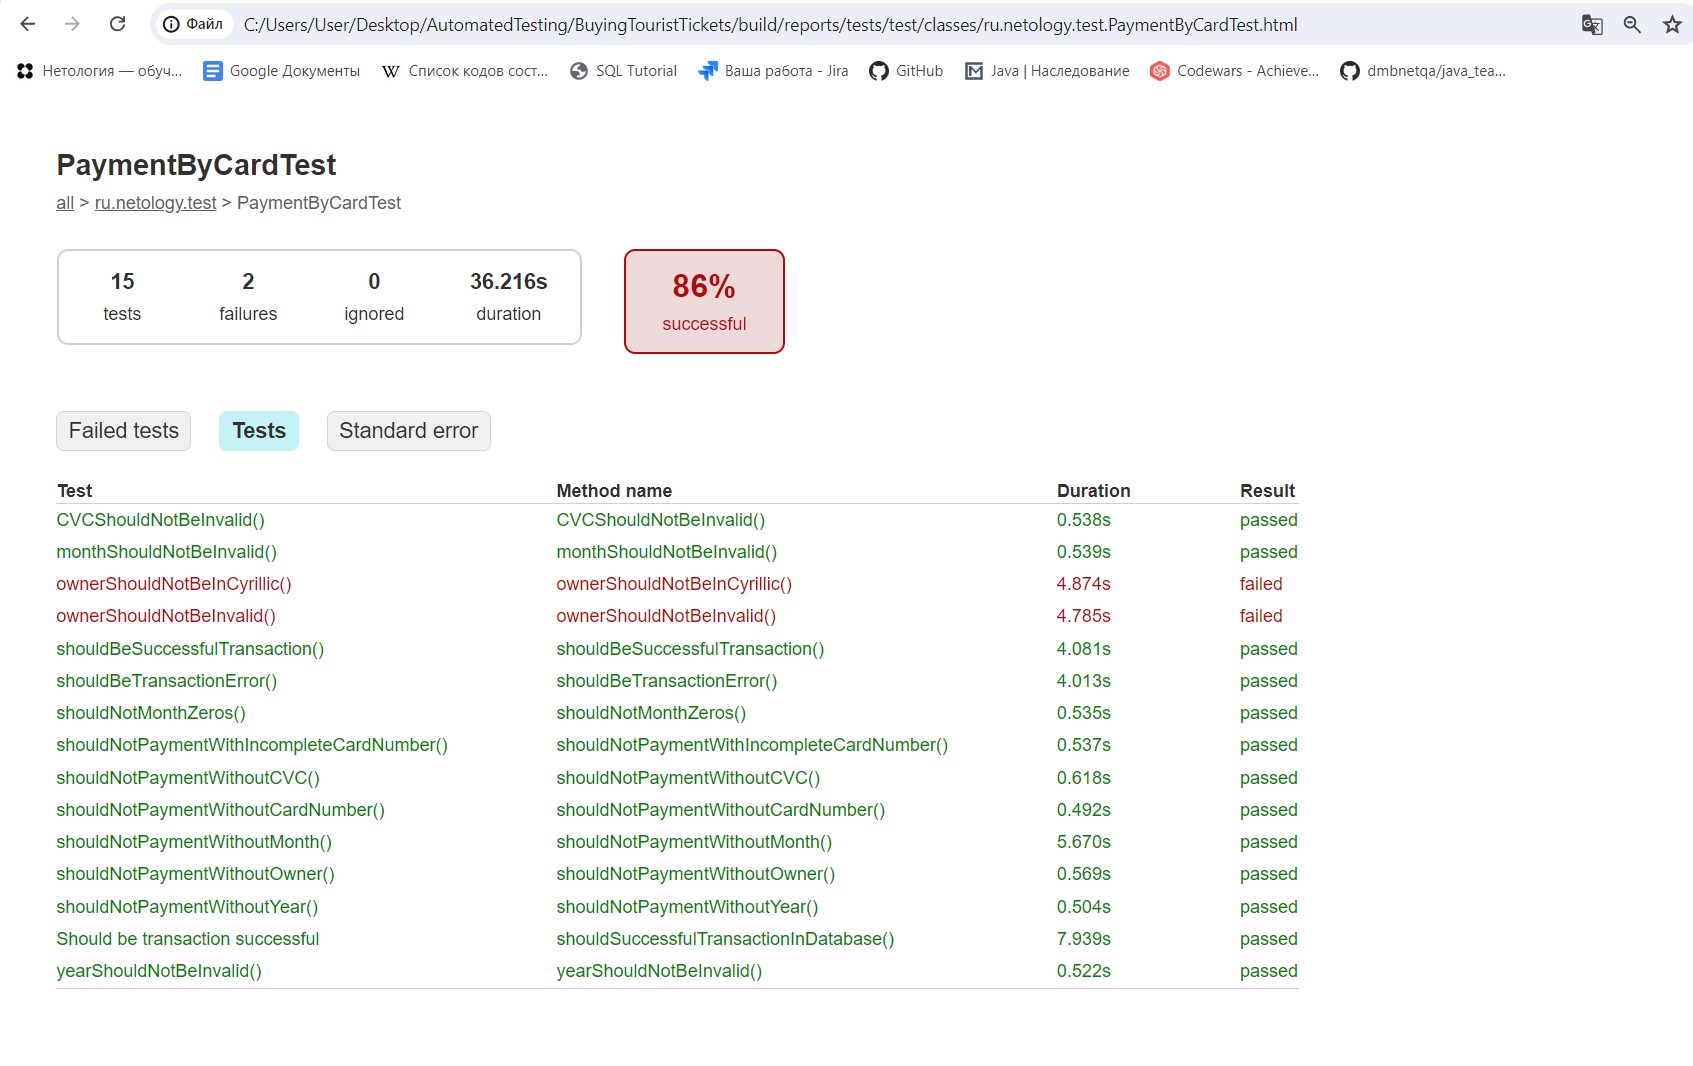
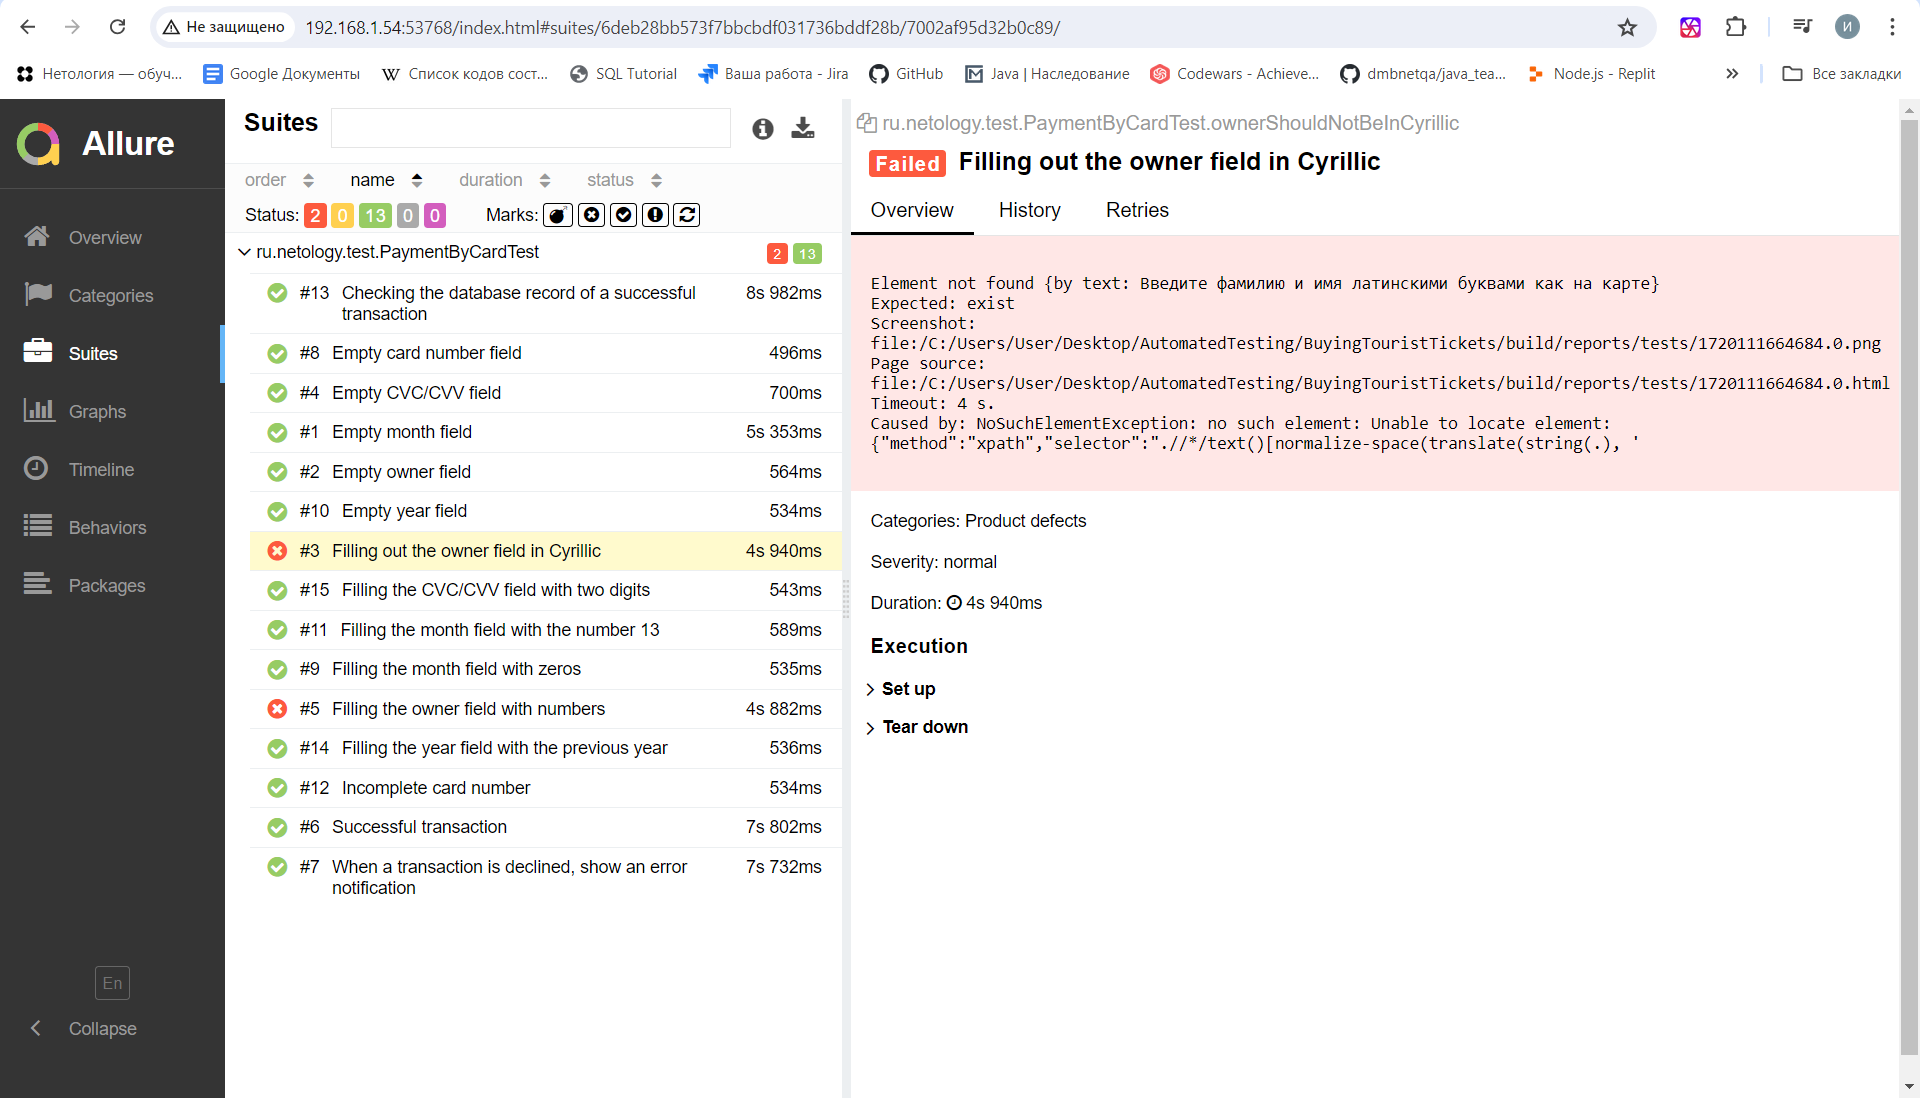
Added README.md, notification method fixed

diff --git a/src/test/java/ru/netology/test/PaymentByCardTest.java b/src/test/java/ru/netology/test/PaymentByCardTest.java
@@ -1,10 +1,10 @@
 package ru.netology.test;
 
+import com.codeborne.selenide.Selenide;
+import com.codeborne.selenide.logevents.SelenideLogger;
+import io.qameta.allure.selenide.AllureSelenide;
 import lombok.val;
-import org.junit.jupiter.api.AfterAll;
-import org.junit.jupiter.api.BeforeEach;
-import org.junit.jupiter.api.DisplayName;
-import org.junit.jupiter.api.Test;
+import org.junit.jupiter.api.*;
 import ru.netology.data.DataGenerator;
 import ru.netology.data.SQLHelper;
 import ru.netology.page.PaymentPage;
@@ -18,9 +18,18 @@ import static ru.netology.data.SQLHelper.cleanDatabase;
 
 public class PaymentByCardTest {
 
-    @AfterAll
+    @BeforeAll
     static void tearDownAll() {
         cleanDatabase();
+    }
+
+    static void setUpAll() {
+        SelenideLogger.addListener("allure", new AllureSelenide());
+    }
+
+    @AfterAll
+    static void tearDownAllReport() {
+        SelenideLogger.removeListener("allure");
     }
 
     @BeforeEach
@@ -29,152 +38,166 @@ public class PaymentByCardTest {
     }
 
     @Test
+    @DisplayName("Successful transaction")
     void shouldBeSuccessfulTransaction() {
-        val startPage = new StartPage();
-        val paymentPage = startPage.payByDebitCard();
-        val cardInfo = DataGenerator.generateInfoCard();
+        var startPage = new StartPage();
+        var paymentPage = startPage.payByDebitCard();
+        var cardInfo = DataGenerator.generateInfoCard();
         paymentPage.fillForm(cardInfo);
-        paymentPage.findMessageSuccessful("Успешно Операция одобрена Банком.");
+        paymentPage.findMessageTransaction("Успешно Операция одобрена Банком.");
     }
 
     @Test
-    void shouldNotPaymentWithoutCardNumber() { // пустое поле "Номер карты"
-        val startPage = new StartPage();
-        val paymentPage = startPage.payByDebitCard();
-        val cardInfo = new DataGenerator.CardInfo(getEmptyCardNumberField(), generateMonth(), generateYear(),
+    @DisplayName("Empty card number field")
+    void shouldNotPaymentWithoutCardNumber() {
+        var startPage = new StartPage();
+        var paymentPage = startPage.payByDebitCard();
+        var cardInfo = new DataGenerator.CardInfo(getEmptyCardNumberField(), generateMonth(), generateYear(),
                 generateOwner(), String.valueOf(generateCVC()));
         paymentPage.fillForm(cardInfo);
         paymentPage.errorForCardEmptyField();
     }
 
     @Test
-    void shouldNotPaymentWithIncompleteCardNumber() { // неполный номер карты
-        val startPage = new StartPage();
-        val paymentPage = startPage.payByDebitCard();
-        val cardInfo = new DataGenerator.CardInfo(getIncompleteCardNumber(), generateMonth(), generateYear(),
+    @DisplayName("Incomplete card number")
+    void shouldNotPaymentWithIncompleteCardNumber() {
+        var startPage = new StartPage();
+        var paymentPage = startPage.payByDebitCard();
+        var cardInfo = new DataGenerator.CardInfo(getIncompleteCardNumber(), generateMonth(), generateYear(),
                 generateOwner(), String.valueOf(generateCVC()));
         paymentPage.fillForm(cardInfo);
         paymentPage.errorForCardEmptyField();
     }
 
     @Test
-    void shouldNotPaymentWithoutMonth() { // пустое поле "Месяц"
-        val startPage = new StartPage();
-        val paymentPage = startPage.payByDebitCard();
-        val cardInfo = new DataGenerator.CardInfo(getCardNumber(), getEmptyMonthField(), generateYear(), generateOwner(),
+    @DisplayName("Empty month field")
+    void shouldNotPaymentWithoutMonth() {
+        var startPage = new StartPage();
+        var paymentPage = startPage.payByDebitCard();
+        var cardInfo = new DataGenerator.CardInfo(getCardNumber(), getEmptyMonthField(), generateYear(), generateOwner(),
                 String.valueOf(generateCVC()));
         paymentPage.fillForm(cardInfo);
         paymentPage.errorForEmptyMonthField();
     }
 
     @Test
-    void shouldNotMonthZeros() { // заполнение поля "Месяц" нулями
-        val startPage = new StartPage();
-        val paymentPage = startPage.payByDebitCard();
-        val cardInfo = new DataGenerator.CardInfo(getCardNumber(), getMonthWithZeros(), generateYear(), generateOwner(),
+    @DisplayName("Filling the month field with zeros")
+    void shouldNotMonthZeros() {
+        var startPage = new StartPage();
+        var paymentPage = startPage.payByDebitCard();
+        var cardInfo = new DataGenerator.CardInfo(getCardNumber(), getMonthWithZeros(), generateYear(), generateOwner(),
                 String.valueOf(generateCVC()));
         paymentPage.fillForm(cardInfo);
         paymentPage.invalidMonthFieldError();
     }
 
     @Test
-    void monthShouldNotBeInvalid() { // заполнение поля "Месяц" цифрой 13
-        val startPage = new StartPage();
-        val paymentPage = startPage.payByDebitCard();
-        val cardInfo = new DataGenerator.CardInfo(getCardNumber(), getInvalidMonth(), generateYear(), generateOwner(),
+    @DisplayName("Filling the month field with the number 13")
+    void monthShouldNotBeInvalid() {
+        var startPage = new StartPage();
+        var paymentPage = startPage.payByDebitCard();
+        var cardInfo = new DataGenerator.CardInfo(getCardNumber(), getInvalidMonth(), generateYear(), generateOwner(),
                 String.valueOf(generateCVC()));
         paymentPage.fillForm(cardInfo);
         paymentPage.invalidMonthFieldError();
     }
 
     @Test
-    void shouldNotPaymentWithoutYear() { // пустое поле "Год"
-        val startPage = new StartPage();
-        val paymentPage = startPage.payByDebitCard();
-        val cardInfo = new DataGenerator.CardInfo(getCardNumber(), generateMonth(), getEmptyYearField(), generateOwner(),
+    @DisplayName("Empty year field")
+    void shouldNotPaymentWithoutYear() {
+        var startPage = new StartPage();
+        var paymentPage = startPage.payByDebitCard();
+        var cardInfo = new DataGenerator.CardInfo(getCardNumber(), generateMonth(), getEmptyYearField(), generateOwner(),
                 String.valueOf(generateCVC()));
         paymentPage.fillForm(cardInfo);
         paymentPage.errorForEmptyYearField();
     }
 
     @Test
-    void yearShouldNotBeInvalid() { // заполнение поля "Год" прошедшим годом
-        val startPage = new StartPage();
-        val paymentPage = startPage.payByDebitCard();
-        val cardInfo = new DataGenerator.CardInfo(getCardNumber(), generateMonth(), getInvalidYear(), generateOwner(),
+    @DisplayName("Filling the year field with the previous year")
+    void yearShouldNotBeInvalid() {
+        var startPage = new StartPage();
+        var paymentPage = startPage.payByDebitCard();
+        var cardInfo = new DataGenerator.CardInfo(getCardNumber(), generateMonth(), getInvalidYear(), generateOwner(),
                 String.valueOf(generateCVC()));
         paymentPage.fillForm(cardInfo);
         paymentPage.errorInvalidYear();
     }
 
     @Test
-    void shouldNotPaymentWithoutOwner() { // пустое поле "Владелец"
-        val startPage = new StartPage();
-        val paymentPage = startPage.payByDebitCard();
-        val cardInfo = new DataGenerator.CardInfo(getCardNumber(), generateMonth(), generateYear(), getEmptyOwnerField(),
+    @DisplayName("Empty owner field")
+    void shouldNotPaymentWithoutOwner() {
+        var startPage = new StartPage();
+        var paymentPage = startPage.payByDebitCard();
+        var cardInfo = new DataGenerator.CardInfo(getCardNumber(), generateMonth(), generateYear(), getEmptyOwnerField(),
                 String.valueOf(generateCVC()));
         paymentPage.fillForm(cardInfo);
         paymentPage.errorForEmptyOwnerField();
     }
 
     @Test
-    void ownerShouldNotBeInCyrillic() { // заполнение поля "Владелец" на кириллице
-        val startPage = new StartPage();
-        val paymentPage = startPage.payByDebitCard();
-        val cardInfo = new DataGenerator.CardInfo(getCardNumber(), generateMonth(), generateYear(), getOwnerInCyrillic(),
+    @DisplayName("Filling out the owner field in Cyrillic")
+    void ownerShouldNotBeInCyrillic() {
+        var startPage = new StartPage();
+        var paymentPage = startPage.payByDebitCard();
+        var cardInfo = new DataGenerator.CardInfo(getCardNumber(), generateMonth(), generateYear(), getOwnerInCyrillic(),
                 String.valueOf(generateCVC()));
         paymentPage.fillForm(cardInfo);
         paymentPage.errorOwnerInCyrillic();
     }
 
     @Test
-    void ownerShouldNotBeInvalid() { // заполнение поля "Владелец" цифрами
-        val startPage = new StartPage();
-        val paymentPage = startPage.payByDebitCard();
-        val cardInfo = new DataGenerator.CardInfo(getCardNumber(), generateMonth(), generateYear(), getOwnerNumbers(),
+    @DisplayName("Filling the owner field with numbers")
+    void ownerShouldNotBeInvalid() {
+        var startPage = new StartPage();
+        var paymentPage = startPage.payByDebitCard();
+        var cardInfo = new DataGenerator.CardInfo(getCardNumber(), generateMonth(), generateYear(), getOwnerNumbers(),
                 String.valueOf(generateCVC()));
         paymentPage.fillForm(cardInfo);
         paymentPage.errorOwnerNumbers();
     }
 
     @Test
-    void shouldNotPaymentWithoutCVC() { // пустое поле "CVC/CVV"
-        val startPage = new StartPage();
-        val paymentPage = startPage.payByDebitCard();
-        val cardInfo = new DataGenerator.CardInfo(getCardNumber(), generateMonth(), generateYear(), generateOwner(), getEmptyCVCField());
+    @DisplayName("Empty CVC/CVV field")
+    void shouldNotPaymentWithoutCVC() {
+        var startPage = new StartPage();
+        var paymentPage = startPage.payByDebitCard();
+        var cardInfo = new DataGenerator.CardInfo(getCardNumber(), generateMonth(), generateYear(), generateOwner(), getEmptyCVCField());
         paymentPage.fillForm(cardInfo);
         paymentPage.errorForEmptyCVCField();
     }
 
     @Test
-    void CVCShouldNotBeInvalid() { // заполнение поля "CVC/CVV" из двух цифр
-        val startPage = new StartPage();
-        val paymentPage = startPage.payByDebitCard();
-        val cardInfo = new DataGenerator.CardInfo(getCardNumber(), generateMonth(), generateYear(), generateOwner(),
+    @DisplayName("Filling the CVC/CVV field with two digits")
+    void CVCShouldNotBeInvalid() {
+        var startPage = new StartPage();
+        var paymentPage = startPage.payByDebitCard();
+        var cardInfo = new DataGenerator.CardInfo(getCardNumber(), generateMonth(), generateYear(), generateOwner(),
                 String.valueOf(getInvalidCVC()));
         paymentPage.fillForm(cardInfo);
         paymentPage.errorInvalidCVCCVV();
     }
 
     @Test
+    @DisplayName("When a transaction is declined, show an error notification")
     void shouldBeTransactionError() {
-        val startPage = new StartPage();
-        val paymentPage = startPage.payByDebitCard();
-        val cardInfo = new DataGenerator.CardInfo(getInvalidCardNumber(), generateMonth(), generateYear(), generateOwner(),
+        var startPage = new StartPage();
+        var paymentPage = startPage.payByDebitCard();
+        var cardInfo = new DataGenerator.CardInfo(getInvalidCardNumber(), generateMonth(), generateYear(), generateOwner(),
                 String.valueOf(generateCVC()));
         paymentPage.fillForm(cardInfo);
-        paymentPage.findErrorTransaction("Ошибка Ошибка! Банк отказал в проведении операции.");
+        paymentPage.findMessageTransaction("Ошибка Ошибка! Банк отказал в проведении операции.");
     }
 
     @Test
-    @DisplayName("Should be transaction successful")
+    @DisplayName("Checking the database record of a successful transaction")
     void shouldSuccessfulTransactionInDatabase() {
-        val startPage = new StartPage();
-        val paymentPage = startPage.payByDebitCard();
-        val cardInfo = new DataGenerator.CardInfo(getCardNumber(), generateMonth(), generateYear(), generateOwner(),
+        var startPage = new StartPage();
+        var paymentPage = startPage.payByDebitCard();
+        var cardInfo = new DataGenerator.CardInfo(getCardNumber(), generateMonth(), generateYear(), generateOwner(),
                 String.valueOf(generateCVC()));
         paymentPage.fillForm(cardInfo);
-        paymentPage.findMessageSuccessful("Успешно Операция одобрена Банком.");
+        paymentPage.findMessageTransaction("Успешно Операция одобрена Банком.");
         assertEquals("APPROVED", SQLHelper.getPaymentStatus());
     }
 }

diff --git a/src/test/java/ru/netology/page/PaymentPage.java b/src/test/java/ru/netology/page/PaymentPage.java
@@ -21,7 +21,7 @@ public class PaymentPage {
     private final SelenideElement ownerCard = $(byText("Владелец")).parent().$(".input__control");
     private final SelenideElement numberCVC = $(byText("CVC/CVV")).parent().$(".input__control");
     private final SelenideElement buttonContinue = $(byText("Продолжить"));
-    private final SelenideElement messageSuccessful = $(".notification_status_ok");
+    //private final SelenideElement messageSuccessful = $(".notification_status_ok");
     private final SelenideElement errorInCardNumber = $(byText("Неверный формат")).parent().$(".input__sub");
     private final SelenideElement errorMonth = $(byText("Неверный формат")).parent().$(".input__sub");
     private final SelenideElement errorInvalidMonth = $(byText("Неверно указан срок действия карты")).parent().$(".input__sub");
@@ -32,8 +32,8 @@ public class PaymentPage {
     private final SelenideElement errorOwnerNumbers = $(byText("Введите фамилию и имя латинскими буквами как на карте")).parent().$(".input__sub");
     private final SelenideElement errorCVC = $(byText("Поле обязательно для заполнения")).parent().$(".input__sub");
     private final SelenideElement errorInvalidCVC = $(byText("Неверный формат")).parent().$(".input__sub");
-
-    private final SelenideElement transactionErrorMessage = $(".notification_status_error");
+   // private final SelenideElement transactionErrorMessage = $(".notification_status_error");
+    private final SelenideElement messageTransaction = $(".notification_visible");
 
     public void fillForm(DataGenerator.CardInfo cardInfo) {
         numberCard.setValue(cardInfo.getCardNumber());
@@ -44,8 +44,12 @@ public class PaymentPage {
         buttonContinue.click();
     }
 
-    public void findMessageSuccessful(String expectedText) {
-        messageSuccessful.shouldBe(text(expectedText), Duration.ofSeconds(15));
+   // public void findMessageSuccessful(String expectedText) {
+   //     messageSuccessful.shouldBe(text(expectedText), Duration.ofSeconds(15));
+   // }
+
+    public void findMessageTransaction(String expectedText) {
+        messageTransaction.shouldBe(text(expectedText), Duration.ofSeconds(15));
     }
 
     public void errorForCardEmptyField() {
@@ -88,7 +92,7 @@ public class PaymentPage {
         errorInvalidCVC.shouldBe(visible);
     }
 
-    public void findErrorTransaction(String expectedText) {
-        transactionErrorMessage.shouldBe(text(expectedText), Duration.ofSeconds(15));
-    }
+   // public void findErrorTransaction(String expectedText) {
+   //     transactionErrorMessage.shouldBe(text(expectedText), Duration.ofSeconds(15));
+   // }
 }

diff --git a/src/test/java/ru/netology/data/SQLHelper.java b/src/test/java/ru/netology/data/SQLHelper.java
@@ -30,5 +30,5 @@ public class SQLHelper {
         var codeSQL = "SELECT status FROM payment_entity";
         var conn = getConn();
         return QUERY_RUNNER.query(conn, codeSQL, new ScalarHandler<>());
-        }
+    }
 }

diff --git a/README.md b/README.md
@@ -1,0 +1,35 @@
+# Сервис для покупки тура
+
+## Бизнес-часть
+
+### Описание приложения
+
+Приложение - это веб-сервис, который предлагает купить тур по определенной цене двумя способами:
+
+1. Обычная оплата по дебетовой карте.
+2. Уникальная технология: выдача кредита по данным банковской карты.
+
+![StartPage.png](StartPage.png)
+
+Само приложение не обрабатывает данные по картам, а пересылает их банковским сервисам:
+* сервису платежей, далее Payment Gate;
+* кредитному сервису, далее Credit Gate.
+
+Приложение в собственной СУБД должно сохранять информацию о том, успешно ли был совершен платеж и каким способом.
+Данные карт сохранять не допускается.
+
+## Настройка и запуск проекта (SUT)
+
+1. Клонировать репозиторий через терминал командой - git clone git@github.com:IrinaSanna/BuyingTouristTickets.git
+2. Открыть проект через IntelliJ IDEA.
+3. Запустить Docker desktop (установить при необходимости)
+4. В терминале IDEA выполнить команду docker-compose up
+5. Во втором терминале выполнить команду по запуску jar-файла (SUT) - java -jar aqa-shop.jar
+6. В браузере Google Chrome в адресной строке ввести URL - localhost:8080
+
+## Запуск автотестов и формирование отчета
+
+1. Открыть класс PaymentByCardTest:
+* нажать кнопку Run Test;
+* либо выполнить команду в терминале ./gradlew test clean --info
+2. Для формирования allure-отчета, необходимо в терминале выполнить команду ./gradlew allureserve

diff --git a/Summary.md b/Summary.md
@@ -2,7 +2,7 @@
 
 1. В соответствии с планом было написано 15 автотестов.
 
-Результаты тестов по тестируемому функционалу представлены в отчете, с ипользованием Gradle-отчета:
+Результаты тестов по тестируемому функционалу представлены в отчете, с ипользованием allure-отчета:
 
 ![img_1.png](img_1.png)
 

diff --git a/Report.md b/Report.md
@@ -12,7 +12,7 @@
 
 ## Процент успешных тест-кейсов
 
-В процентном соотношении успешный результат составил 86%, проваленных 14%.
+В процентном соотношении успешный результат составил 86.66%, проваленных 13.33%.
 
 ## Общие рекомендации
 
